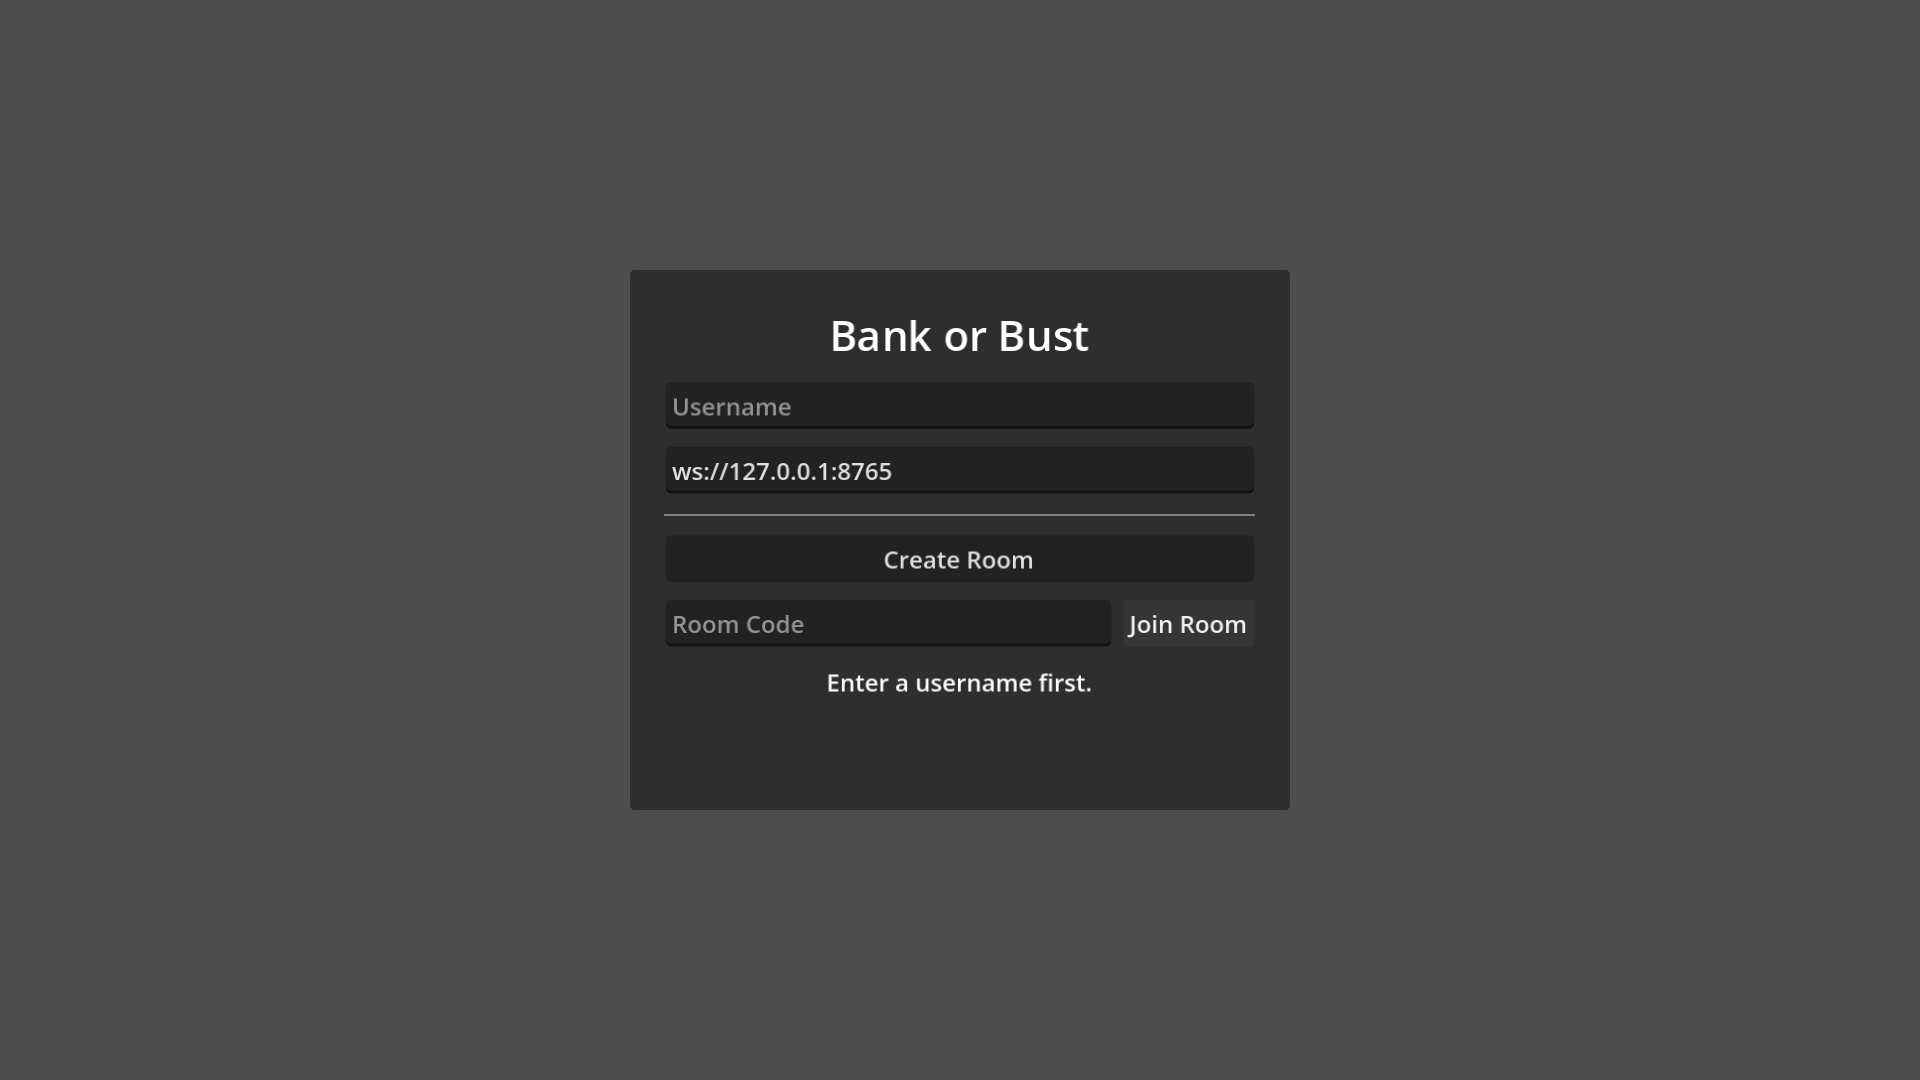
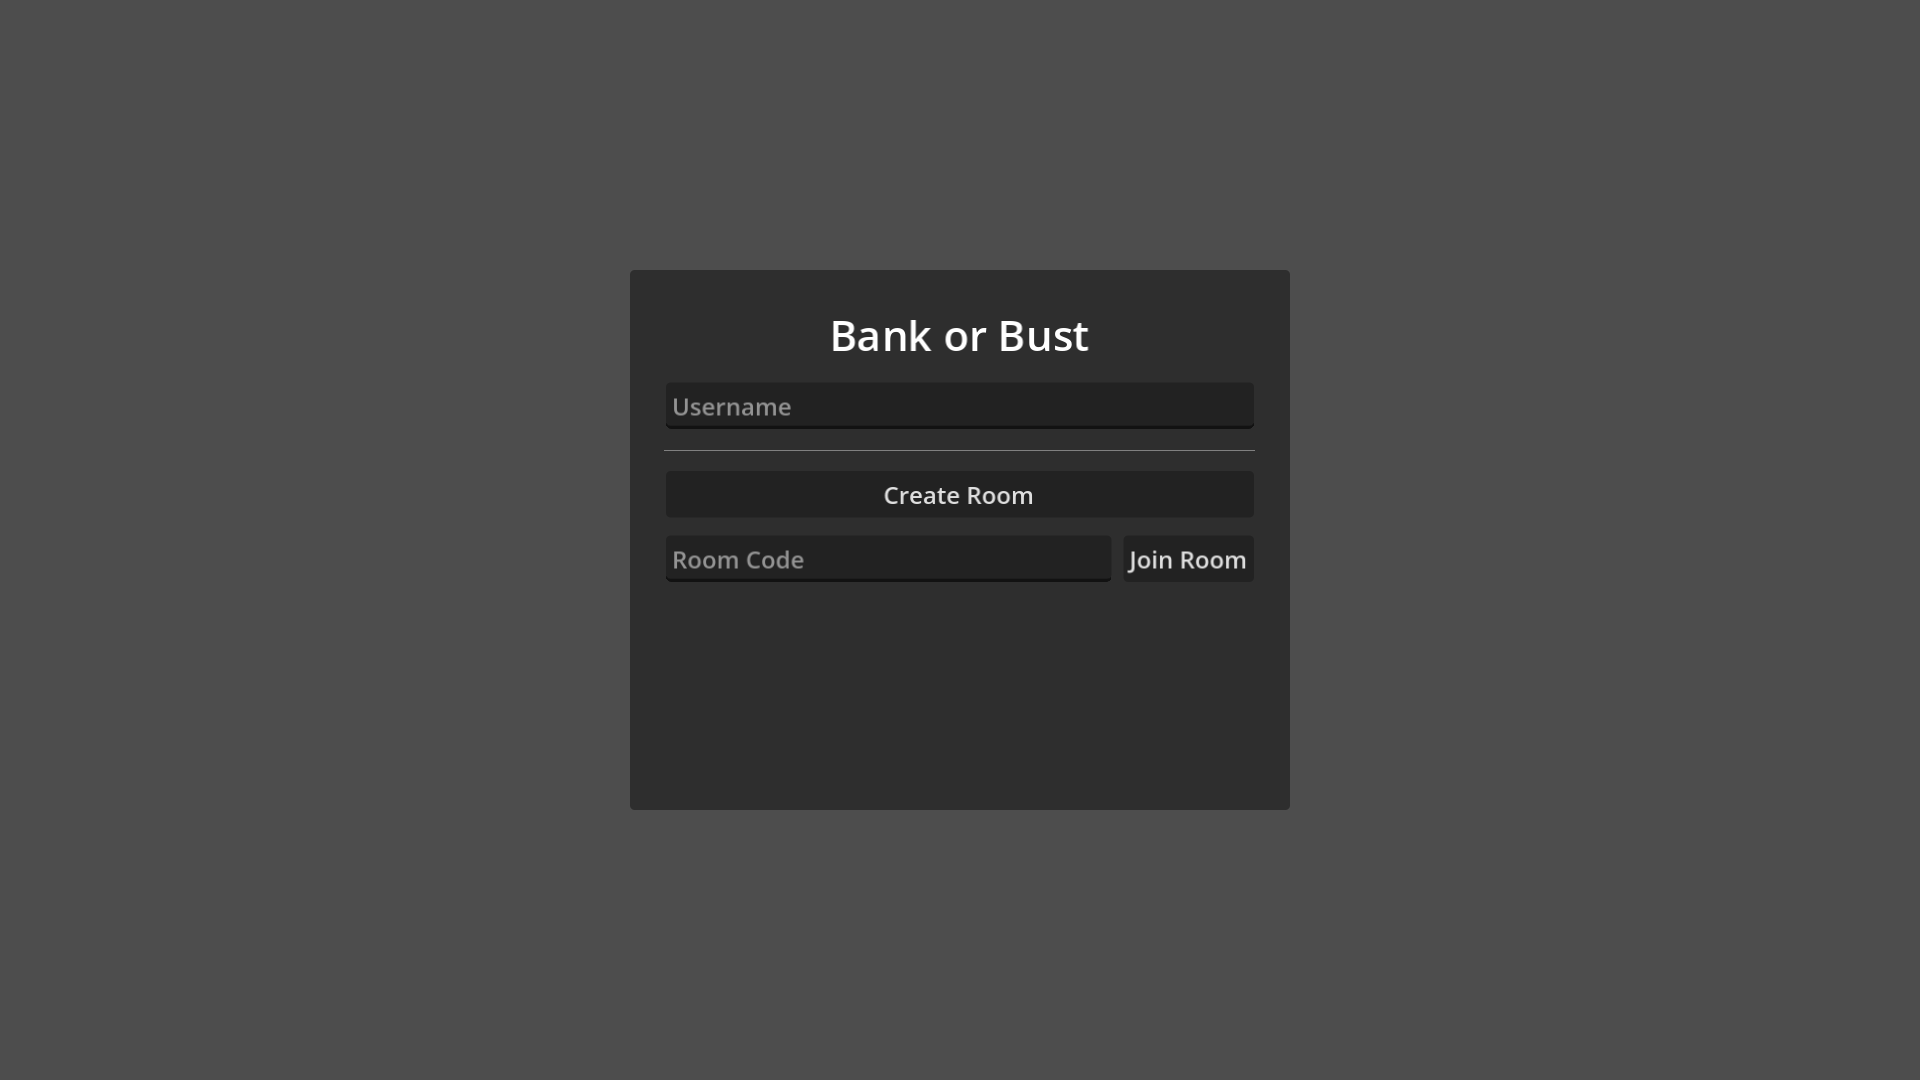
Hide relay URL from players, add design handoff brief
The relay address is an implementation detail, so the title screen now
just asks for a username and room code. Developers can still point the
client at another relay with the ?relay= URL parameter.

Also adds a design brief and current UI screenshots for a visual pass.

diff --git a/screenshots/DESIGN-BRIEF.md b/screenshots/DESIGN-BRIEF.md
@@ -1,0 +1,97 @@
+# Bank or Bust — visual design brief
+
+Paste this to Claude Design along with the screenshots in this folder.
+
+---
+
+## The prompt
+
+I need a visual design pass on **Bank or Bust**, a multiplayer push-your-luck
+dice game that runs in the browser. The game is fully functional — everything in
+the attached screenshots works — but it's using Godot's default theme and looks
+like an unstyled prototype. I want it to look like a real game.
+
+**What I need from you:** a cohesive visual direction (colour palette,
+typography, panel/button styling, dice treatment, spacing and hierarchy) applied
+across all four screens, delivered as concrete specs I can implement in Godot 4
+— exact hex colours, font sizes/weights, corner radii, border widths, padding
+values, and a description of any state changes (hover/pressed/disabled).
+
+### The game in one paragraph
+
+Players join a room with a 4-character code and take turns. On your turn you
+roll five dice. Any die showing a 1 "busts" and is set aside. You choose which
+of the surviving dice to lock in (their values add to your round pot), then
+decide: roll the remaining live dice again for more, or bank the pot into your
+permanent score and pass the turn. If every die still in play busts on a single
+roll, you lose the entire round pot. First to 4000 points wins. It's a game
+about greed and nerve — the tension is "one more roll?"
+
+### The screens (attached)
+
+1. **`01-title.png`** — Enter a username, then either Create Room or type a
+   4-character code and Join Room.
+2. **`02-lobby.png`** — Room code displayed large (players read it aloud/paste
+   it to friends), list of players with assigned colour swatches, host-only
+   Start Game button, and a chat panel on the right.
+3. **`03-game-turn-start.png`** — The main game. Left: scoreboard with per-player
+   colour swatch, score, and a marker for whose turn it is. Centre: whose turn,
+   live dice count, round pot, the dice row, and Roll/Bank buttons. Right: chat.
+   Here the five dice are blank (not yet rolled this roll).
+4. **`04-game-after-roll.png`** — After rolling: white dice with pips are
+   selectable, red dice with an X have busted. The button becomes "Lock Selected".
+5. **`06-game-dice-locked.png`** — Locked dice turn gold and stay on screen; the
+   round pot reflects their total; remaining live dice show as blank slots.
+6. **`07-turn-handover.png`** — After banking: the turn passes, a result message
+   shows ("alice banked 6 points."), and a dimmed "Last turn" row shows what the
+   previous player finished with.
+
+### Dice states to design (this is the centrepiece)
+
+The dice are drawn in code, not sprites, so you can specify anything drawable
+with rounded rectangles, circles, and lines:
+
+- **Blank** — a live die that hasn't been rolled yet this roll
+- **Normal** — rolled, not busted, selectable (shows 1–6 pips)
+- **Selected** — the player has picked this one to lock in
+- **Locked** — banked into the round pot, safe
+- **Busted** — showed a 1, dead for the round
+
+These five states must be distinguishable *at a glance* — that reading is the
+core of the game's decision-making. Currently: blank = dark grey, normal =
+off-white, selected = green border, locked = gold, busted = dark red with an X.
+Keep or replace that logic as you see fit, but preserve instant legibility.
+
+### Constraints
+
+- **Engine:** Godot 4.7, `Control` nodes. Deliverables should be things I can
+  set via theme overrides and `_draw()` calls — colours, fonts, radii, borders,
+  spacing. No CSS, no external image assets.
+- **Dice are procedurally drawn.** Pips are circles; the die body is a rounded
+  rect with optional border. I can draw lines/shapes but not import art.
+- **Fonts:** free/open licence only (Google Fonts is fine). Name specific
+  families and give me a fallback if the family isn't loaded.
+- **Layout:** the three-column game layout (scoreboard / play area / chat) works
+  and should stay, but proportions, panel styling, and spacing are all open.
+- **Reference resolution** is 1280×720, scaled canvas. It should still read well
+  at smaller window sizes.
+- **Tone:** tense and a bit greedy — a felt-table / casino-adjacent feel, or a
+  clean modern board-game look. Not childish, not grimdark. Pick a direction and
+  commit to it rather than hedging.
+
+### What I'd like back
+
+1. A named visual direction with a one-paragraph rationale.
+2. A palette: background, panel, panel border, primary text, secondary text,
+   accent/CTA, danger/bust, success/locked, plus the 8 player colours (they must
+   be mutually distinguishable and readable on the panel background).
+3. Typography scale: family, size, and weight for screen titles, room code,
+   player names, scores, body/status text, and buttons.
+4. Component specs: panels, primary/secondary/disabled buttons, text inputs,
+   chat lines, scoreboard rows.
+5. Dice specs for all five states above, including pip colour/size and the
+   busted marker treatment.
+6. Anything you'd restructure in the layout, with a rough sketch or description.
+
+Focus on hierarchy and legibility first: at a glance a player should know whose
+turn it is, what their pot is worth, and which dice are safe versus dead.
